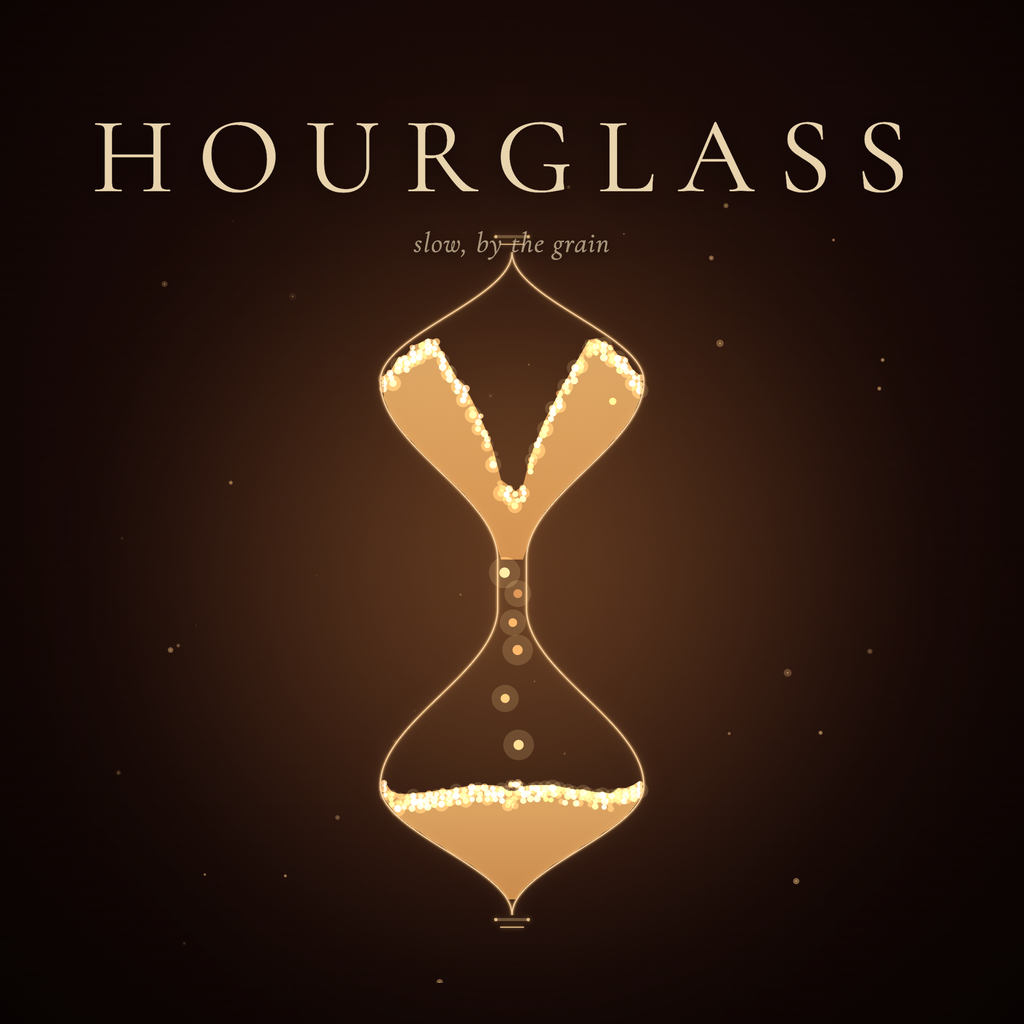
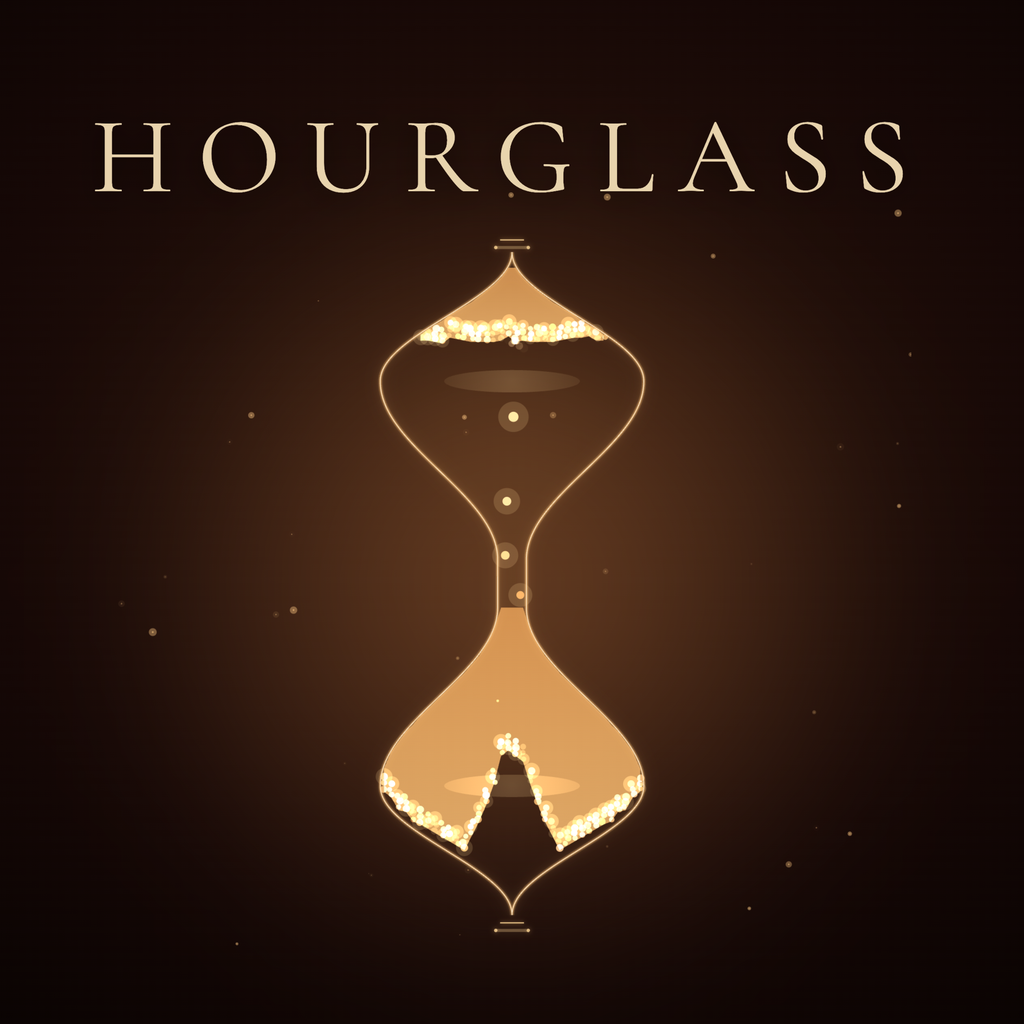
polish: soft glass highlights, audio, conservation, prominent timestamp
- Glass: two soft curved catches + a shoulder shimmer per chamber, all
  clipped to the chamber outline and rendered with 'lighter' blending
  so they whisper rather than glare.
- Audio (subtle): pink-noise sand rustle whose gain follows in-flight
  count, tiny high-passed impact ticks per grain landing (throttled),
  short sine-glissando + low-passed whoosh on flip. All gated on first
  pointerdown; AudioContext.resume() called once; complex envelopes
  delayed >500ms after gesture per iOS rules.
- BUG FIX: manual flip used to RESET both chambers and keep only the
  bottom's grain count, so total sand bled out across flips and the
  cycle kept returning the same elapsed-second bucket. Now both top
  and bottom carry their counts through finishFlip — total conserved,
  random durations show their effect.
- Fact card moved up, timestamp now 46px Cormorant in theme color
  (always English, e.g. '20 seconds' / '3 minutes' / '1.5 hours').
- Poster: subtitle removed, just the wordmark above the hourglass.

Changed region(s): [[0.375, 0.2188, 0.625, 0.9062]]

diff --git a/index.html b/index.html
@@ -160,12 +160,12 @@
   .hint.is-gone { opacity: 0; animation: none; }
   @keyframes hintBreathe { 0%, 100% { opacity: 0.55; } 50% { opacity: 1; } }
 
-  /* Fact card — persistent caption at bottom; updated on each flip */
+  /* Fact card — persistent block above status; updated on each flip */
   .fact-card {
     position: absolute;
-    bottom: calc(max(20px, env(safe-area-inset-bottom)) + 38px);
-    left: 8%;
-    right: 8%;
+    bottom: calc(max(20px, env(safe-area-inset-bottom)) + 78px);
+    left: 6%;
+    right: 6%;
     text-align: center;
     pointer-events: none;
     z-index: 6;
@@ -174,21 +174,27 @@
   }
   .fact-card.is-visible { opacity: 1; }
   .fact-card .fc-duration {
-    font-family: ui-monospace, "JetBrains Mono", monospace;
-    font-size: 10px;
-    letter-spacing: 0.38em;
-    text-transform: uppercase;
-    color: rgba(232, 220, 188, 0.45);
-    margin-bottom: 8px;
+    font-family: "Cormorant Garamond", "Times New Roman", serif;
+    font-weight: 400;
+    font-size: 46px;
+    letter-spacing: 0.04em;
+    color: rgba(255, 234, 196, 0.97);
+    text-shadow: 0 3px 22px rgba(0,0,0,0.55);
+    line-height: 1.0;
+    margin-bottom: 14px;
   }
+  /* Theme-colored duration text */
+  body[data-theme="geode"]    .fact-card .fc-duration { color: rgba(232, 210, 255, 0.97); text-shadow: 0 2px 18px rgba(40,10,80,0.55); }
+  body[data-theme="glowsand"] .fact-card .fc-duration { color: rgba(200, 248, 250, 0.97); text-shadow: 0 2px 18px rgba(0,30,40,0.55); }
+
   .fact-card .fc-body {
     font-family: "Cormorant Garamond", "Times New Roman", serif;
     font-style: italic;
-    font-size: 16px;
-    line-height: 1.36;
+    font-size: 17px;
+    line-height: 1.42;
     letter-spacing: 0.01em;
-    color: rgba(248, 232, 200, 0.86);
-    max-width: 540px;
+    color: rgba(232, 218, 188, 0.78);
+    max-width: 560px;
     margin: 0 auto;
   }
   /* Sub-line hidden in the new sticky layout */
@@ -223,15 +229,6 @@
     line-height: 1;
     text-transform: uppercase;
   }
-  .poster-title .pt-sub {
-    margin-top: 14px;
-    font-family: "Cormorant Garamond", "Times New Roman", serif;
-    font-style: italic;
-    font-size: 26px;
-    letter-spacing: 0.04em;
-    color: rgba(232, 212, 178, 0.66);
-    text-shadow: 0 2px 12px rgba(0,0,0,0.6);
-  }
 </style>
 </head>
 <body data-theme="sahara">
@@ -254,7 +251,6 @@
 
   <div class="poster-title">
     <div class="pt-name">Hourglass</div>
-    <div class="pt-sub">slow, by the grain</div>
   </div>
 
   <div class="poem" id="poem"></div>
@@ -505,18 +501,14 @@ function pickFact(elapsedSec) {
   const fact = arr[Math.floor(Math.random() * arr.length)] || { en: '—', zh: '—' };
   return { bucket, fact };
 }
+// Duration label is always English regardless of UI locale — the timestamp is
+// part of the visual identity ("20 SECONDS", "3 minutes", etc.).
 function formatDurationLabel(sec) {
-  if (LOCALE === 'zh') {
-    if (sec < 60)   return sec + ' 秒';
-    if (sec < 3600) return Math.round(sec / 60) + ' 分钟';
-    return (sec / 3600).toFixed(1) + ' 小时';
-  } else {
-    if (sec === 1)  return '1 second';
-    if (sec < 60)   return sec + ' seconds';
-    if (sec < 120)  return '1 minute';
-    if (sec < 3600) return Math.round(sec / 60) + ' minutes';
-    return (sec / 3600).toFixed(1) + ' hours';
-  }
+  if (sec === 1)  return '1 second';
+  if (sec < 60)   return sec + ' seconds';
+  if (sec < 120)  return '1 minute';
+  if (sec < 3600) return Math.round(sec / 60) + ' minutes';
+  return (sec / 3600).toFixed(1) + ' hours';
 }
 const FACT_INTRO = {
   en: 'In this span, the world quietly did this.',
@@ -894,6 +886,7 @@ function stepInFlight(dt, theme) {
         }
         if (placedCol >= 0) {
           spawnDust(p.x, stackTopY, theme);
+          playImpactPing();
         }
         inFlight.splice(i, 1);
         continue;
@@ -971,6 +964,7 @@ function triggerFlip() {
   updateFactCard(elapsedSec);
   hideHint();
   spawnFlipBurst();
+  playFlipSound();
   stageFlipped = !stageFlipped;
   stage.classList.toggle('is-flipped', stageFlipped);
   cyclePhase = 'flipping';
@@ -989,23 +983,29 @@ function startFlip() {
   triggerFlip();
 }
 function finishFlip() {
-  // After visual rotation, what was bottom becomes top. Swap state arrays so
-  // sim coords realign, then reset for the next cycle.
+  // Swap chamber state — what was the bottom is now the top.
   const t = topCols, tm = topMax;
   topCols = botCols; topMax = botMax;
   botCols = t;       botMax = tm;
-  let carry = 0;
-  for (let i = 0; i < NUM_COLS; i++) carry += topCols[i];
+  // CONSERVE total sand: re-settle BOTH chambers into clean piles of their
+  // existing grain counts. (Earlier bug: only re-settled the top and cleared
+  // the bottom, which lost grains on every manual flip → cycles got shorter
+  // and shorter, always returning the same elapsed-second bucket.)
+  let topCarry = 0, botCarry = 0;
+  for (let i = 0; i < NUM_COLS; i++) topCarry += topCols[i];
+  for (let i = 0; i < NUM_COLS; i++) botCarry += botCols[i];
   for (let i = 0; i < NUM_COLS; i++) { topCols[i] = 0; botCols[i] = 0; }
-  refillFromCenter(topCols, topMax, carry);
+  refillFromCenter(topCols, topMax, topCarry);
+  refillFromCenter(botCols, botMax, botCarry);
+
   inFlight.length = 0;
   drainAccum = 0;
   emptyTimer = 0;
   phaseTimer = 0;
   flipState = { active: false, t: 0 };
-  // Begin a fresh cycle with a new random target duration
+  // Fresh random target duration for the upcoming drain
   pickCycleDuration();
-  DRAIN_INTERVAL_MS = Math.max(20, (cycleTargetSec * 1000) / Math.max(1, carry || totalGrains));
+  DRAIN_INTERVAL_MS = Math.max(20, (cycleTargetSec * 1000) / Math.max(1, topCarry || totalGrains));
   drainStartTime = (typeof performance !== 'undefined' ? performance.now() : Date.now());
   cyclePhase = 'draining';
 }
@@ -1057,6 +1057,7 @@ function frame(now) {
   stepMotes(dt);
   tickCycle(dt);
   tickAutoFlip(dt);
+  tickAudio();
 
   render(theme);
   requestAnimationFrame(frame);
@@ -1155,11 +1156,12 @@ function pathHourglassOutline() {
 }
 
 function drawChamberTint(theme) {
-  // Soft inner haze inside the chamber outline — gives the glass body color.
+  // Soft inner haze + curved light catches, all clipped inside the chamber.
   pathHourglassOutline();
   ctx.save();
   ctx.clip();
-  // Radial glow centered on chamber middle
+
+  // 1) Radial glow centered on chamber middle (the base tint)
   const midY = stageSize * 0.5;
   const g = ctx.createRadialGradient(cxPx, midY, 0, cxPx, midY, stageSize * 0.45);
   g.addColorStop(0, theme.vesselTint);
@@ -1167,7 +1169,57 @@ function drawChamberTint(theme) {
   g.addColorStop(1, 'rgba(0,0,0,0)');
   ctx.fillStyle = g;
   ctx.fillRect(0, 0, stageSize, stageSize);
+
+  // 2) Soft curved highlights — two per chamber. They sit just inside the
+  // wall, follow the curve, and use a radial gradient with low alpha so the
+  // edges feather out (no hard specular). 'lighter' blending lets them
+  // brighten without dirtying the underlying tint.
+  ctx.globalCompositeOperation = 'lighter';
+  const upperMid = ((FRAC.upperTop + FRAC.upperBot) / 2) * stageSize;
+  const lowerMid = ((FRAC.lowerTop + FRAC.lowerBot) / 2) * stageSize;
+
+  drawGlassCatch(theme, cxPx - 0.052 * stageSize, upperMid - 0.005 * stageSize, 0.018 * stageSize, 0.122 * stageSize,  0.05, 0.62);
+  drawGlassCatch(theme, cxPx + 0.046 * stageSize, upperMid + 0.020 * stageSize, 0.011 * stageSize, 0.068 * stageSize, -0.04, 0.38);
+  drawGlassCatch(theme, cxPx - 0.052 * stageSize, lowerMid + 0.005 * stageSize, 0.018 * stageSize, 0.122 * stageSize, -0.05, 0.62);
+  drawGlassCatch(theme, cxPx + 0.046 * stageSize, lowerMid - 0.020 * stageSize, 0.011 * stageSize, 0.068 * stageSize,  0.04, 0.38);
+
+  // 3) A subtle horizontal "shoulder" highlight at the chamber's widest point,
+  // suggesting the curve catching ambient light.
+  const peakUpperY = (FRAC.upperTop + (FRAC.upperBot - FRAC.upperTop) * 0.42) * stageSize;
+  const peakLowerY = (FRAC.lowerTop + (FRAC.lowerBot - FRAC.lowerTop) * 0.58) * stageSize;
+  drawShoulderGlow(theme, peakUpperY, 0.22);
+  drawShoulderGlow(theme, peakLowerY, 0.22);
+
   ctx.restore();
+}
+
+function drawGlassCatch(theme, cx, cy, rx, ry, rot, peakAlpha) {
+  // Elongated soft highlight using a radial gradient.
+  const grad = ctx.createRadialGradient(cx, cy, 0, cx, cy, ry);
+  grad.addColorStop(0,    theme.capAccent.replace(/[\d.]+\)$/, peakAlpha.toFixed(2) + ')'));
+  grad.addColorStop(0.45, theme.capAccent.replace(/[\d.]+\)$/, (peakAlpha * 0.42).toFixed(3) + ')'));
+  grad.addColorStop(0.78, theme.capAccent.replace(/[\d.]+\)$/, (peakAlpha * 0.12).toFixed(3) + ')'));
+  grad.addColorStop(1,    'rgba(255,255,255,0)');
+  ctx.save();
+  ctx.translate(cx, cy);
+  ctx.rotate(rot);
+  ctx.fillStyle = grad;
+  ctx.beginPath();
+  ctx.ellipse(0, 0, rx, ry, 0, 0, Math.PI * 2);
+  ctx.fill();
+  ctx.restore();
+}
+
+function drawShoulderGlow(theme, y, peakAlpha) {
+  // Wide flat shimmer across the chamber widest point.
+  const grad = ctx.createRadialGradient(cxPx, y, 0, cxPx, y, stageSize * 0.20);
+  grad.addColorStop(0,    theme.capAccent.replace(/[\d.]+\)$/, peakAlpha.toFixed(2) + ')'));
+  grad.addColorStop(0.55, theme.capAccent.replace(/[\d.]+\)$/, (peakAlpha * 0.18).toFixed(3) + ')'));
+  grad.addColorStop(1,    'rgba(255,255,255,0)');
+  ctx.fillStyle = grad;
+  ctx.beginPath();
+  ctx.ellipse(cxPx, y, stageSize * 0.085, stageSize * 0.014, 0, 0, Math.PI * 2);
+  ctx.fill();
 }
 
 function drawVesselOutline(theme) {
@@ -1404,6 +1456,135 @@ function drawGrain(theme, x, y, size, hueIdx) {
 }
 
 // ============================================================
+// AUDIO (subtle, gated on first user gesture; iOS-safe)
+//   - sand rustle: continuous filtered pink-noise loop, gain follows drain
+//   - impact tick: tiny filtered-noise pop when a grain lands (throttled)
+//   - flip chime + whoosh: short envelope on flip trigger
+// Per project audio rules: all buffers pre-allocated; AudioContext.resume()
+// called ONCE; nothing complex until 500ms after first gesture.
+// ============================================================
+let audioCtx = null;
+let masterGain = null;
+let noiseBuffer = null;
+let rustleSource = null;
+let rustleFilter = null;
+let rustleGain = null;
+let audioInited = false;
+let audioStartedAt = 0;
+let lastImpactAudioTime = 0;
+
+function audioResumeOnce() {
+  if (audioInited) return;
+  const Ctx = window.AudioContext || window.webkitAudioContext;
+  if (!Ctx) { audioInited = true; return; }
+  audioCtx = new Ctx();
+  masterGain = audioCtx.createGain();
+  masterGain.gain.value = 0.85;
+  masterGain.connect(audioCtx.destination);
+
+  // Pre-allocate a 2-second pink-noise buffer
+  const len = audioCtx.sampleRate * 2;
+  const buf = audioCtx.createBuffer(1, len, audioCtx.sampleRate);
+  const data = buf.getChannelData(0);
+  let b0=0,b1=0,b2=0,b3=0,b4=0,b5=0,b6=0;
+  for (let i = 0; i < len; i++) {
+    const w = Math.random() * 2 - 1;
+    b0 = 0.99886 * b0 + w * 0.0555179;
+    b1 = 0.99332 * b1 + w * 0.0750759;
+    b2 = 0.96900 * b2 + w * 0.1538520;
+    b3 = 0.86650 * b3 + w * 0.3104856;
+    b4 = 0.55000 * b4 + w * 0.5329522;
+    b5 = -0.7616 * b5 - w * 0.0168980;
+    data[i] = (b0 + b1 + b2 + b3 + b4 + b5 + b6 + w * 0.5362) * 0.11;
+    b6 = w * 0.115926;
+  }
+  noiseBuffer = buf;
+
+  // Start the rustle voice with gain 0 — gain ramps in/out with drain activity
+  rustleSource = audioCtx.createBufferSource();
+  rustleSource.buffer = buf;
+  rustleSource.loop = true;
+  rustleFilter = audioCtx.createBiquadFilter();
+  rustleFilter.type = 'lowpass';
+  rustleFilter.frequency.value = 900;
+  rustleFilter.Q.value = 0.4;
+  rustleGain = audioCtx.createGain();
+  rustleGain.gain.value = 0;
+  rustleSource.connect(rustleFilter);
+  rustleFilter.connect(rustleGain);
+  rustleGain.connect(masterGain);
+  // Delay 80ms — iOS occasionally hiccups if started in the same tick as user gesture
+  rustleSource.start(audioCtx.currentTime + 0.08);
+
+  audioCtx.resume().catch(() => {});
+  audioStartedAt = audioCtx.currentTime;
+  audioInited = true;
+}
+
+function tickAudio() {
+  if (!audioInited || !audioCtx || audioCtx.state !== 'running') return;
+  // Rustle volume tracks active grain count, smoothed by the audio param
+  const targetGain = Math.min(0.045, inFlight.length * 0.0035);
+  if (rustleGain) rustleGain.gain.setTargetAtTime(targetGain, audioCtx.currentTime, 0.35);
+}
+
+function playImpactPing() {
+  if (!audioInited || !audioCtx || audioCtx.state !== 'running') return;
+  if (audioCtx.currentTime - audioStartedAt < 0.2) return; // give iOS context room
+  const now = audioCtx.currentTime;
+  if (now - lastImpactAudioTime < 0.07) return; // throttle: max ~14/s
+  lastImpactAudioTime = now;
+  const src = audioCtx.createBufferSource();
+  src.buffer = noiseBuffer;
+  src.playbackRate.value = 0.45 + Math.random() * 0.4;
+  const fil = audioCtx.createBiquadFilter();
+  fil.type = 'highpass';
+  fil.frequency.value = 1100;
+  const g = audioCtx.createGain();
+  g.gain.setValueAtTime(0, now);
+  g.gain.linearRampToValueAtTime(0.012, now + 0.004);
+  g.gain.exponentialRampToValueAtTime(0.0001, now + 0.07);
+  src.connect(fil); fil.connect(g); g.connect(masterGain);
+  src.start(now);
+  src.stop(now + 0.09);
+}
+
+function playFlipSound() {
+  if (!audioInited || !audioCtx || audioCtx.state !== 'running') return;
+  if (audioCtx.currentTime - audioStartedAt < 0.5) return; // iOS: avoid same-gesture complexity
+  const now = audioCtx.currentTime;
+  // Soft chime: sine glissando with smooth envelope
+  const osc = audioCtx.createOscillator();
+  osc.type = 'sine';
+  osc.frequency.setValueAtTime(196, now);
+  osc.frequency.exponentialRampToValueAtTime(392, now + 0.16);
+  osc.frequency.exponentialRampToValueAtTime(294, now + 0.62);
+  const g = audioCtx.createGain();
+  g.gain.setValueAtTime(0, now);
+  g.gain.linearRampToValueAtTime(0.07, now + 0.07);
+  g.gain.exponentialRampToValueAtTime(0.0001, now + 0.85);
+  osc.connect(g);
+  g.connect(masterGain);
+  osc.start(now);
+  osc.stop(now + 0.9);
+
+  // Soft whoosh: pink-noise burst with descending lowpass
+  const src = audioCtx.createBufferSource();
+  src.buffer = noiseBuffer;
+  const fil = audioCtx.createBiquadFilter();
+  fil.type = 'lowpass';
+  fil.frequency.setValueAtTime(1400, now);
+  fil.frequency.exponentialRampToValueAtTime(280, now + 0.45);
+  const wg = audioCtx.createGain();
+  wg.gain.setValueAtTime(0, now);
+  wg.gain.linearRampToValueAtTime(0.05, now + 0.10);
+  wg.gain.linearRampToValueAtTime(0, now + 0.55);
+  src.connect(fil); fil.connect(wg); wg.connect(masterGain);
+  src.start(now);
+  src.stop(now + 0.6);
+}
+
+// ============================================================
 // SENSOR BRIDGE
 // ============================================================
 const gravityRef = { x: 0, y: 1 };
@@ -1545,6 +1726,7 @@ function showHint() {
 // During flip: ignored.
 function onAnyPointerDown(ev) {
   ev.preventDefault();
+  audioResumeOnce();
   const sx = ev.clientX;
   const sy = ev.clientY;
   if (!aigramActive && !sensorActive) {